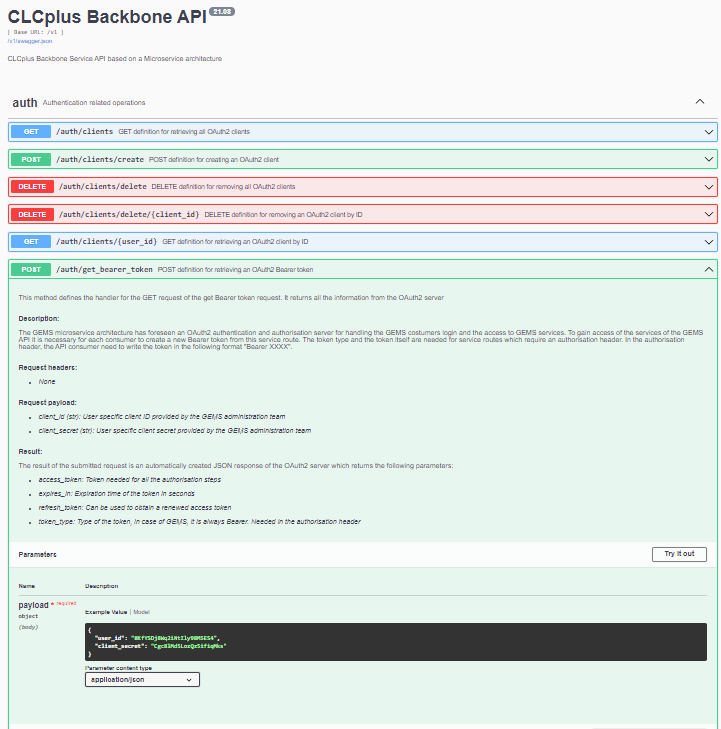
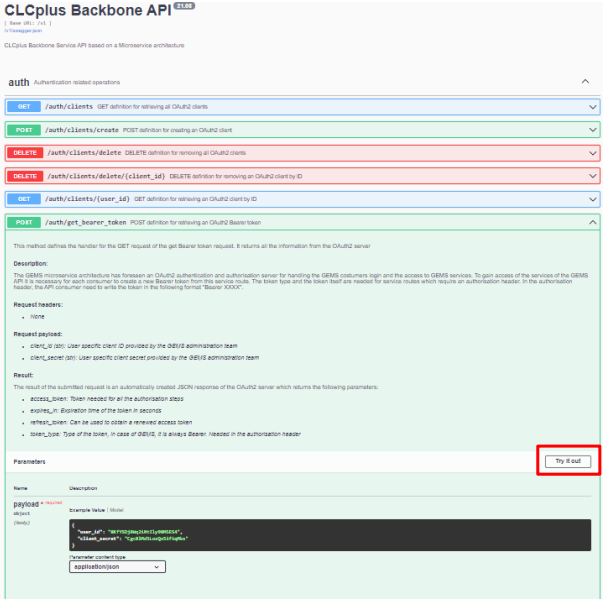
update readme fot clc+ bb

Changed region(s): [[0.0, 0.1194, 1.0, 1.0], [0.0, 0.0, 0.3278, 0.0896]]

diff --git a/01_Documentation/README.md b/01_Documentation/README.md
@@ -83,7 +83,7 @@ https://api.clcplusbackbone.geoville.com/v1/
 
 * Click - “Try it out” button. When clicking this button, the black window box turns white (Figure 1) allowing the insertion of credentials. 
 
-![Alt text](img/image001.png)
+![Figure 1:The SWAGGER Endpoint for creating a bearer token (1)](img/image001.png)
 
 * Insert the requested credentials in the payload white box (Figure 2). 
 * Once inserted, click on the “Execute” button (Figure 2).
